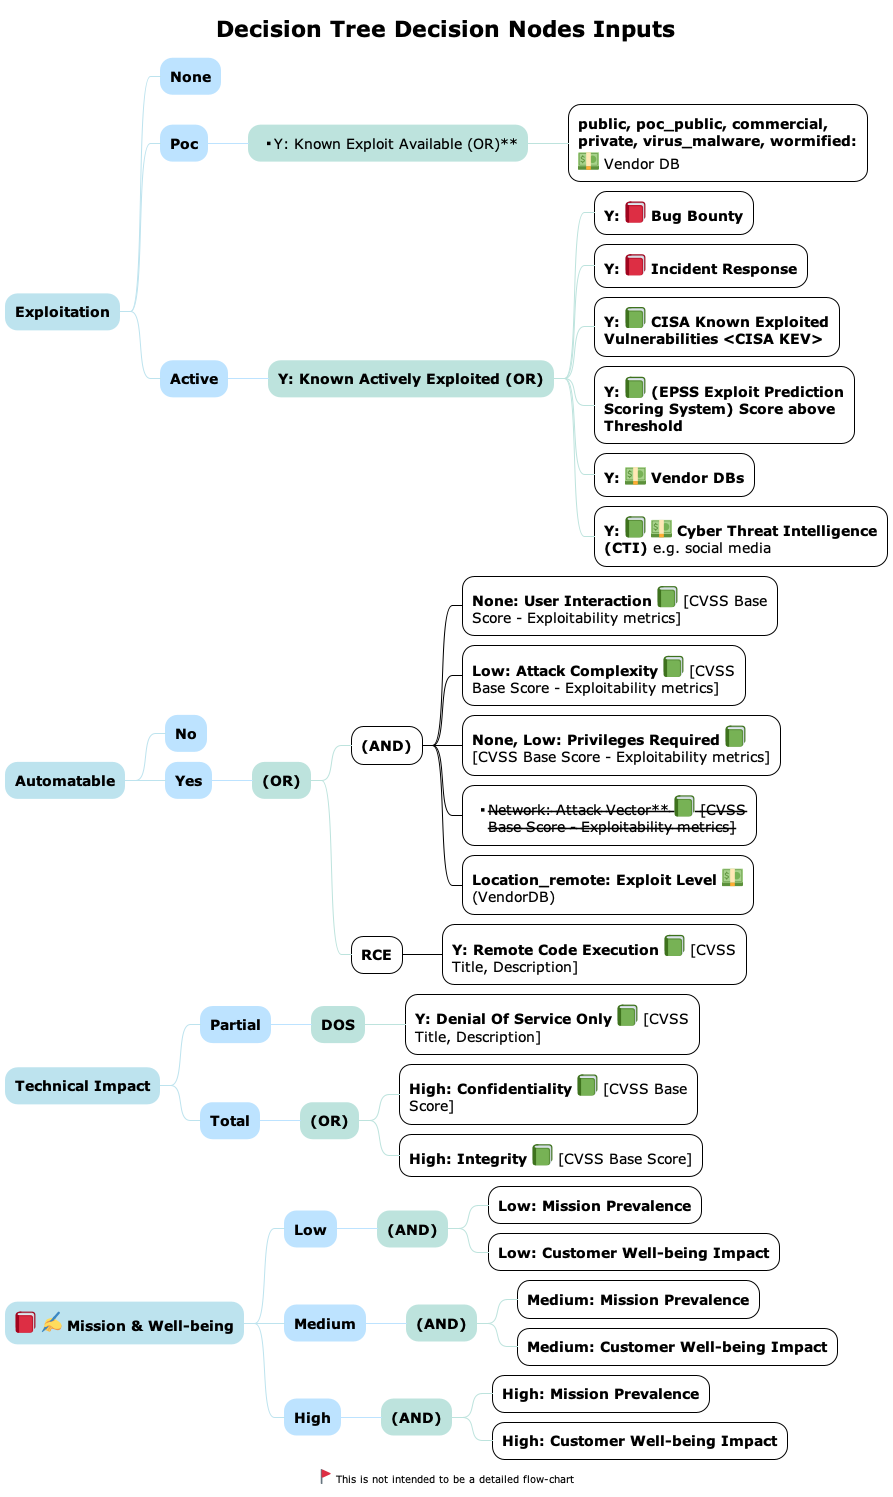
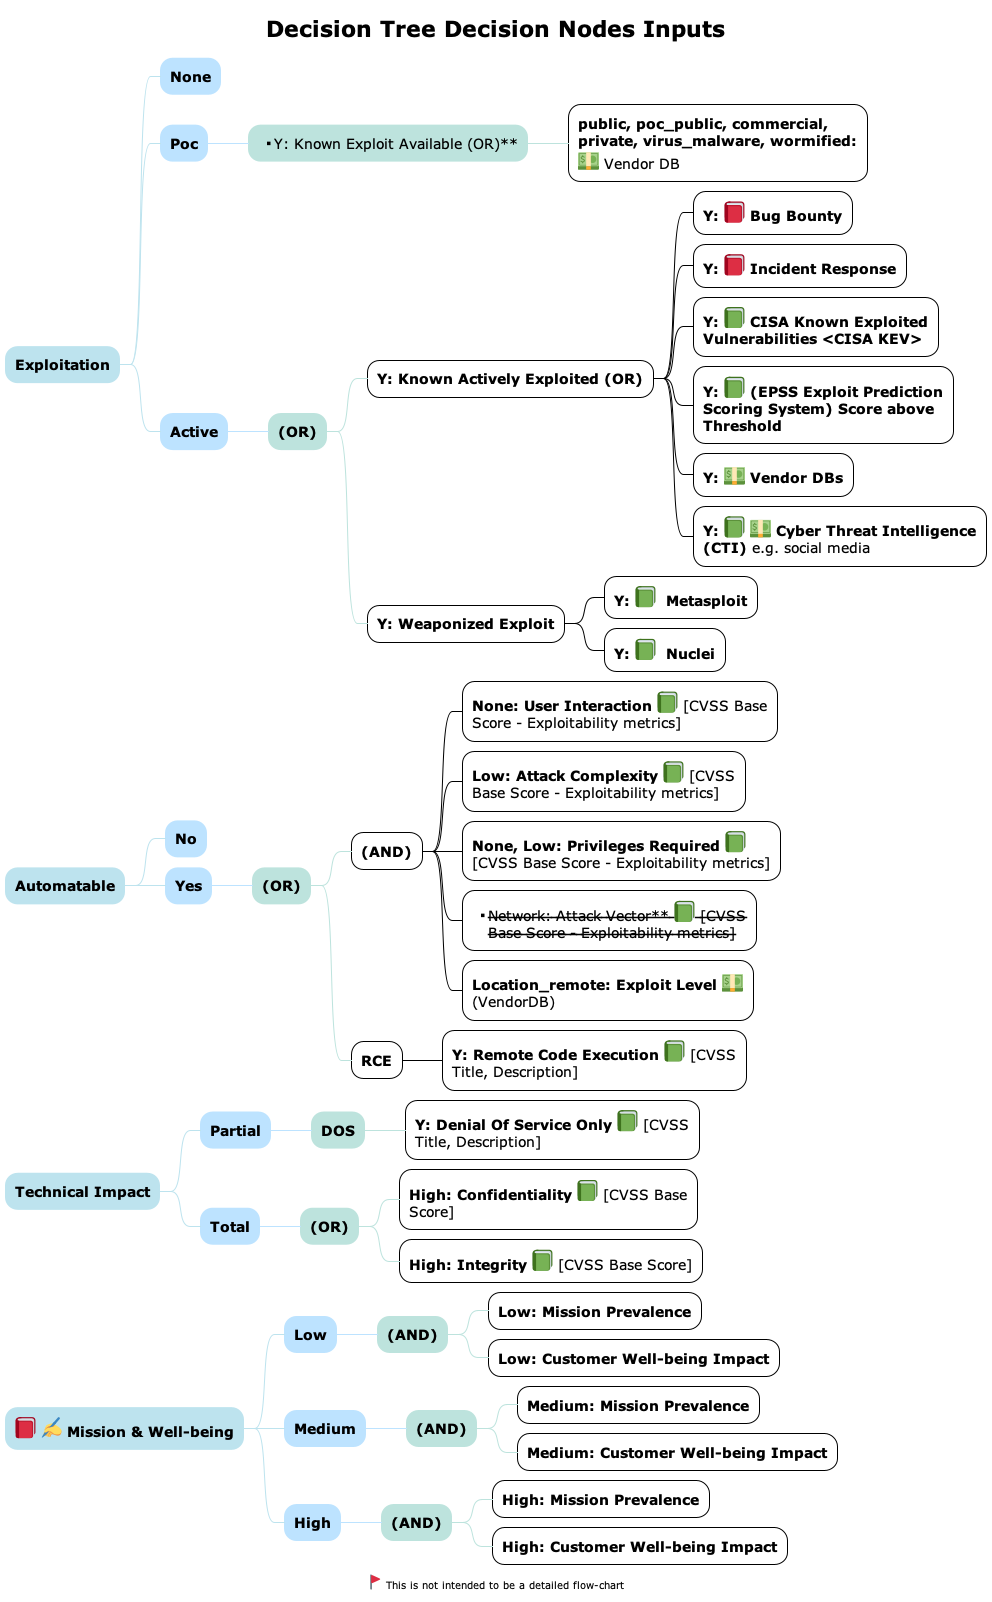
add weaponized to DT decisions

Changed region(s): [[0.0, 0.0, 0.9978, 1.0], [0.0, 0.1844, 0.1512, 0.2458]]

diff --git a/README.md b/README.md
@@ -37,7 +37,7 @@ The inputs for the Decision Tree Decision Nodes - and associated data sources fr
 
 ![RiskRemediationTop](./images/DT_decisions.png)
 
-Diagram Source: [RiskRemediation_top.puml](./imagesAsCode/DT_decisions.puml)
+Diagram Source: [DT_decisions.puml](./imagesAsCode/DT_decisions.puml)
 
 
 # Risk-based Decision Tree Decisions
@@ -58,6 +58,12 @@ The diagram(s) are written in the wonderful [Plantuml](https://plantuml.com).
   ````
   plantuml *.puml -o ./images
   ````
+* or type 
+
+  ````
+  make
+  ````
+
 
 # License
 This project is licensed under the terms of the Apache 2.0 open source license. Please refer to [LICENSE](./LICENSE.txt) for the full terms.
